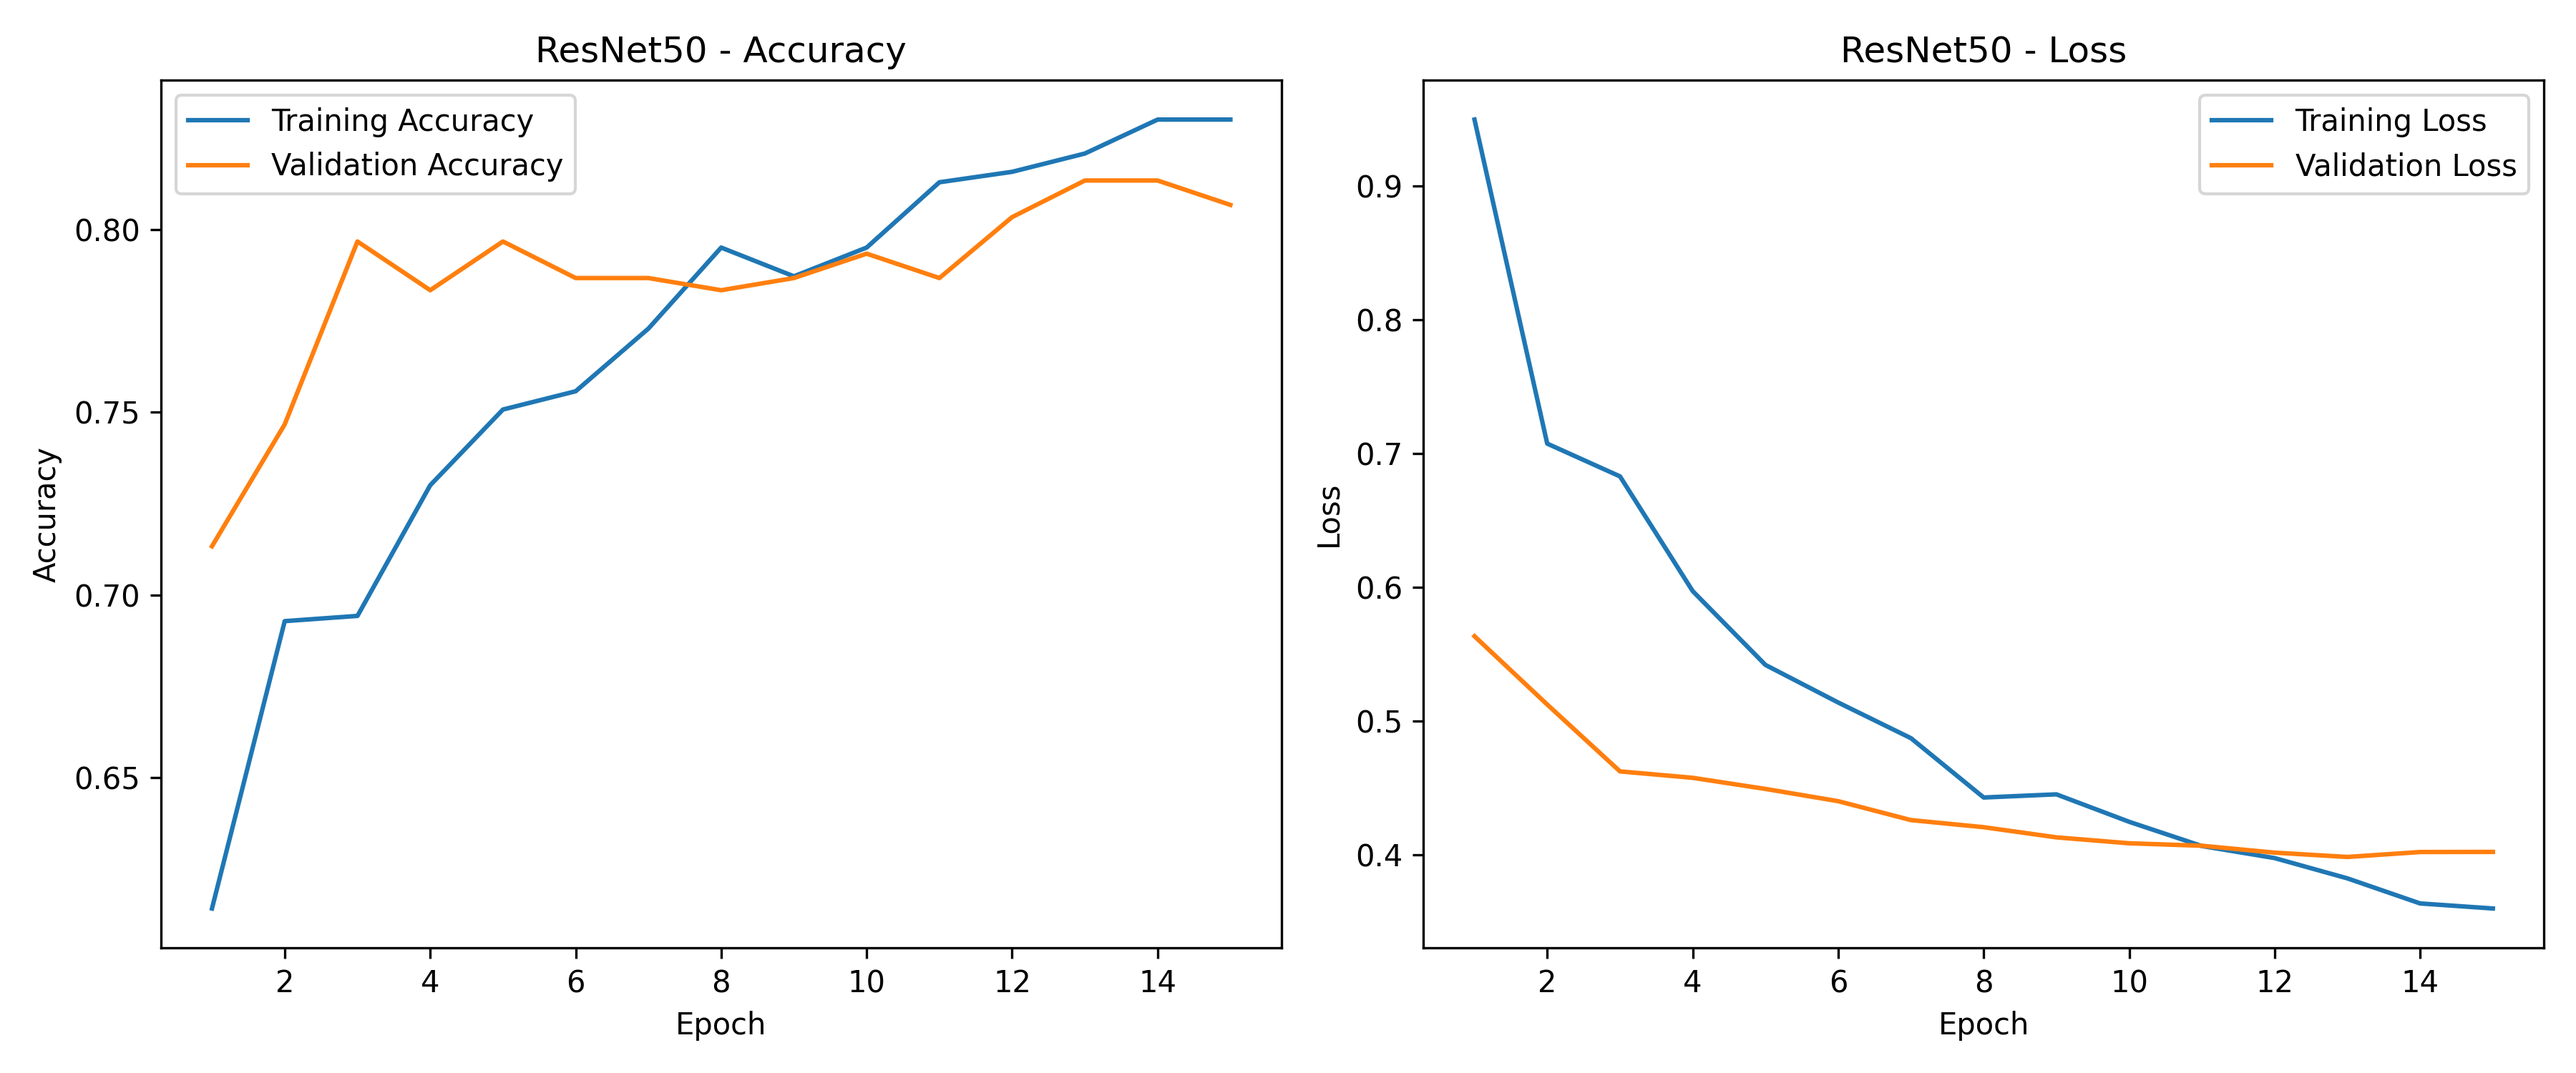
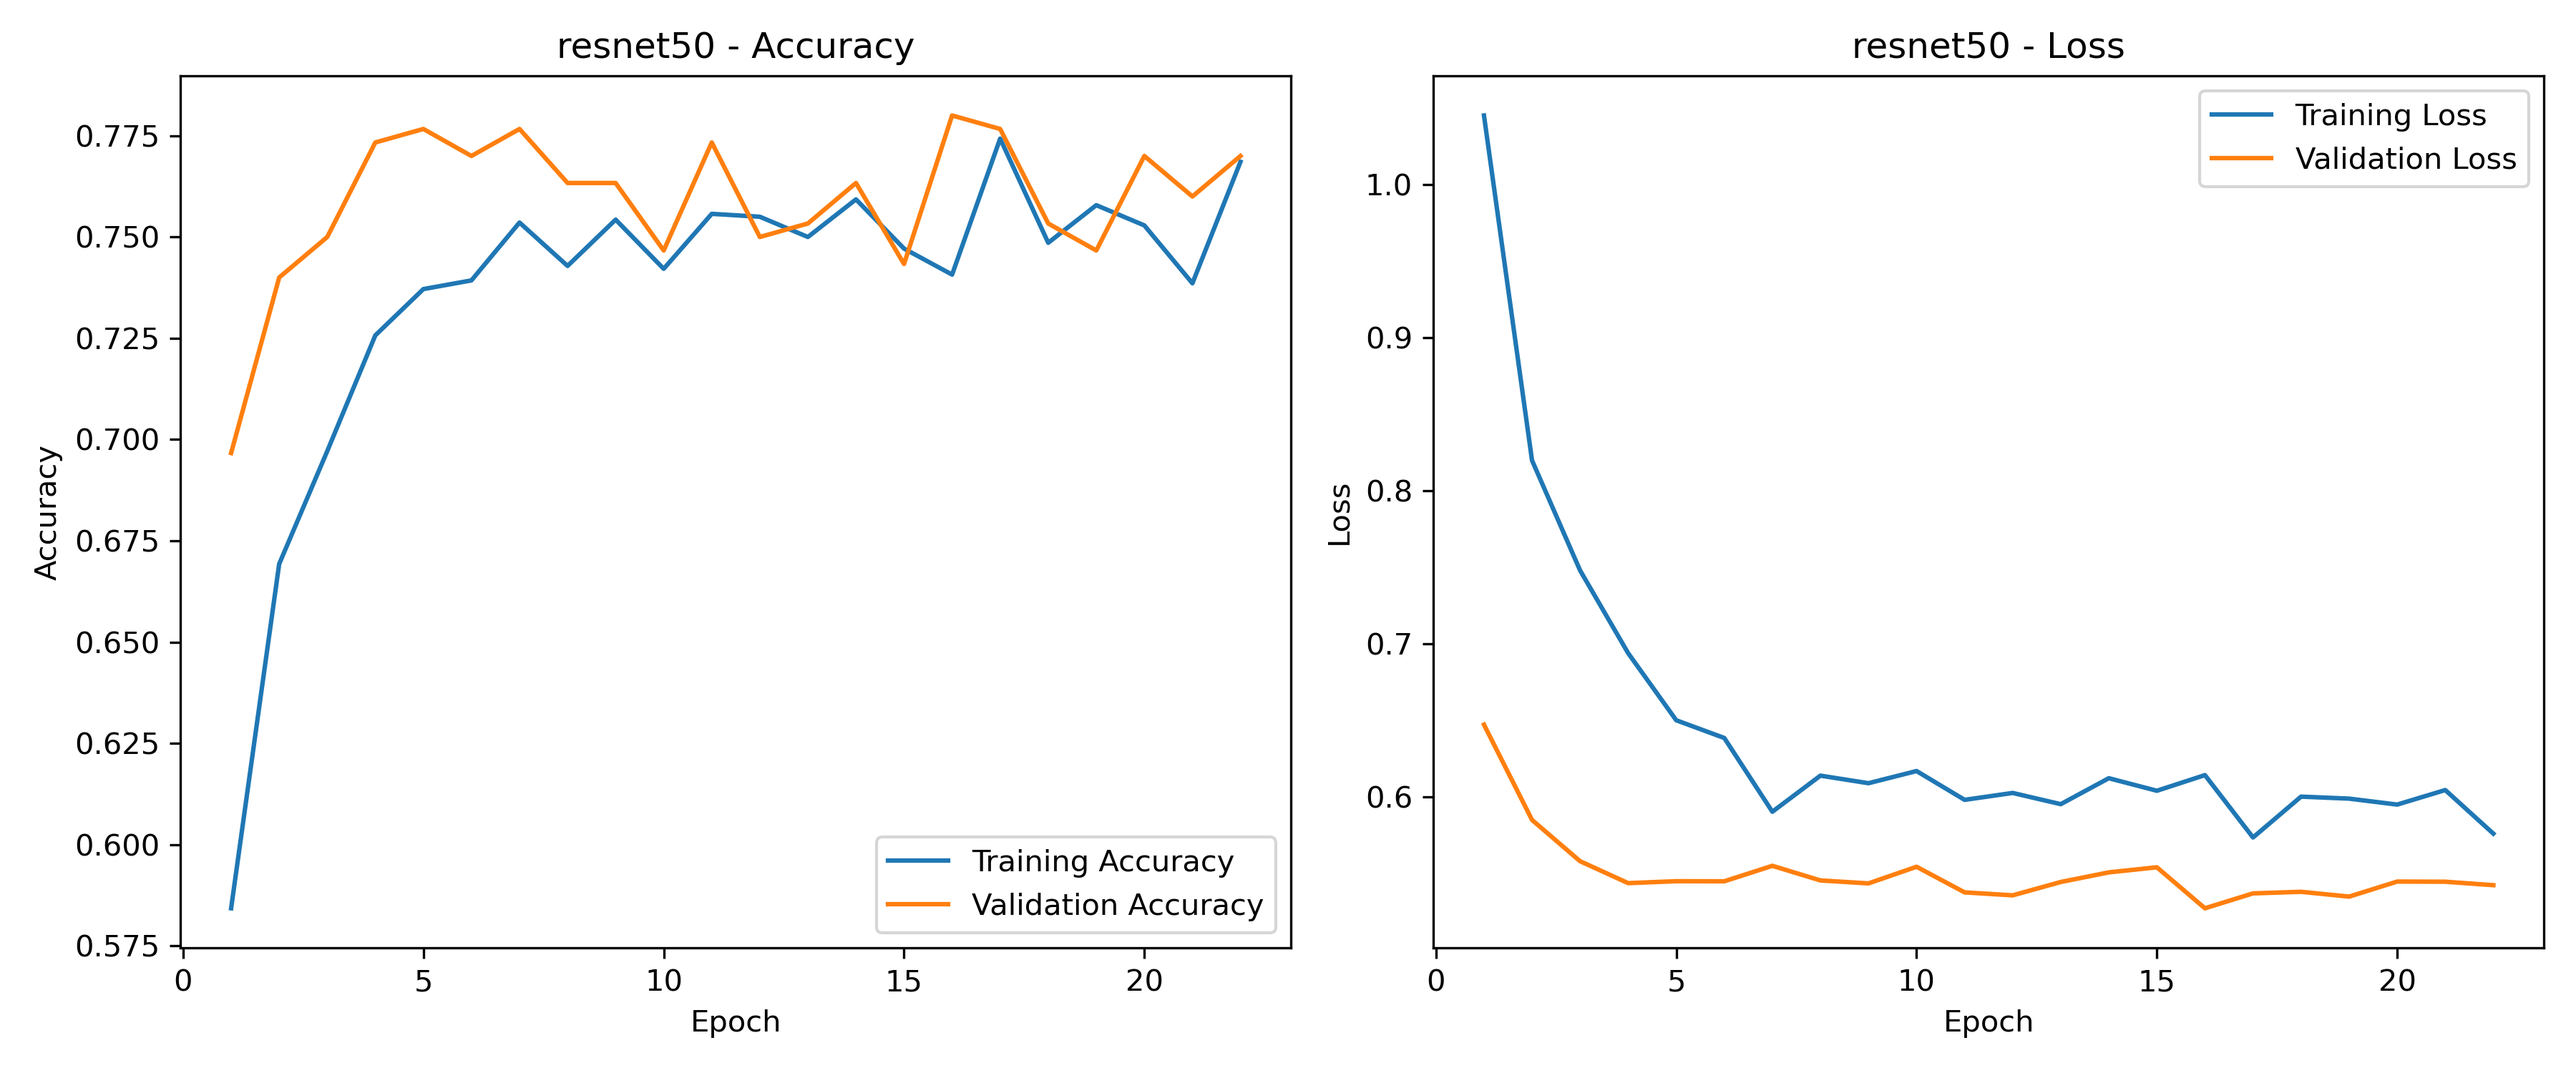
resnet

diff --git a/ResNet50.py b/ResNet50.py
@@ -3,11 +3,20 @@ import zipfile
 import pandas as pd
 import numpy as np
 import matplotlib.pyplot as plt
+import os
+os.environ['TF_CPP_MIN_LOG_LEVEL'] = '3'  # Suppress INFO and WARNING (but not ERROR)
 import tensorflow as tf
+
+tf.compat.v1.logging.set_verbosity(tf.compat.v1.logging.ERROR)
 from sklearn.model_selection import train_test_split
 from sklearn.metrics import classification_report, roc_auc_score, confusion_matrix
 import seaborn as sns
 import shutil
+
+print("Num GPUs Available: ", len(tf.config.list_physical_devices('GPU')))
+
+import tensorflow as tf
+print(tf.__version__)
 
 # === 1. DOWNLOAD HAM10000 DATASET FROM KAGGLE ===
 print("\nChecking for dataset...")
@@ -41,15 +50,16 @@ df['image_path'] = image_dir + "/" + df['image_id'] + ".jpg"
 
 # Balance: sample 1000 of each class
 # 1113 melanoma images and 6705 nevus
-mel_df = df[df['label'] == 'melanoma'].sample(n=1000, random_state=42, replace=False) # replace=True for overfitting (if need more images than exist)
-nv_df = df[df['label'] == 'nevus'].sample(n=1000, random_state=42)
-df_balanced = pd.concat([mel_df, nv_df]).sample(frac=1, random_state=42)
+rng=24 # change for different random samples
+mel_df = df[df['label'] == 'melanoma'].sample(n=1000, random_state=rng, replace=False) # replace=True for overfitting (if need more images than exist)
+nv_df = df[df['label'] == 'nevus'].sample(n=1000, random_state=rng)
+df_balanced = pd.concat([mel_df, nv_df]).sample(frac=1, random_state=rng)
 print("\nBalanced dataset:")
 print(df_balanced['label'].value_counts())
 
 # === 4. SPLIT DATA ===
-train_df, test_df = train_test_split(df_balanced, stratify=df_balanced['label'], test_size=0.3, random_state=42)
-val_df, test_df = train_test_split(test_df, stratify=test_df['label'], test_size=0.5, random_state=42)
+train_df, test_df = train_test_split(df_balanced, stratify=df_balanced['label'], test_size=0.3, random_state=rng)
+val_df, test_df = train_test_split(test_df, stratify=test_df['label'], test_size=0.5, random_state=rng)
 print("\nTrain/Val/Test split:")
 print("Train:")
 print(train_df['label'].value_counts())
@@ -120,10 +130,10 @@ data_augmentation = tf.keras.Sequential([
 AUTOTUNE = tf.data.AUTOTUNE
 
 train_ds = tf.keras.utils.image_dataset_from_directory(
-    "dataset/train", image_size=(IMG_HEIGHT, IMG_WIDTH), batch_size=BATCH_SIZE, label_mode="categorical", seed=42
+    "dataset/train", image_size=(IMG_HEIGHT, IMG_WIDTH), batch_size=BATCH_SIZE, label_mode="categorical", seed=rng
 )
 val_ds = tf.keras.utils.image_dataset_from_directory(
-    "dataset/val", image_size=(IMG_HEIGHT, IMG_WIDTH), batch_size=BATCH_SIZE, label_mode="categorical", seed=42
+    "dataset/val", image_size=(IMG_HEIGHT, IMG_WIDTH), batch_size=BATCH_SIZE, label_mode="categorical", seed=rng
 )
 test_ds = tf.keras.utils.image_dataset_from_directory(
     "dataset/test", image_size=(IMG_HEIGHT, IMG_WIDTH), batch_size=BATCH_SIZE, label_mode="categorical"
@@ -142,65 +152,65 @@ if os.path.exists(MODEL_PATH):
     model = tf.keras.models.load_model(MODEL_PATH)
 
 else:
-    print("No model found. Building ResNet50 model...")
-
     # Load the base ResNet50 model without the top layer
+    # https://keras.io/api/applications/
     base_model = tf.keras.applications.ResNet50(weights='imagenet', include_top=False, input_shape=(IMG_HEIGHT, IMG_WIDTH, 3))
     base_model.trainable = False  # Freeze base model initially
+
+    print(f"No model found. Building {base_model.name} model...")
 
     # Define the input and preprocessing pipeline
     inputs = tf.keras.Input(shape=(IMG_HEIGHT, IMG_WIDTH, 3))
     x = data_augmentation(inputs, training=True)
-    x = tf.keras.applications.resnet.preprocess_input(x)
+    x = tf.keras.applications.resnet50.preprocess_input(x)
 
+    from tensorflow.keras.optimizers.experimental import AdamW
     # Pass through base model and add custom classifier
     x = base_model(x, training=False)
     x = tf.keras.layers.GlobalAveragePooling2D()(x)
     x = tf.keras.layers.Dropout(0.5)(x)
-    x = tf.keras.layers.Dense(128, activation='relu')(x)
+    x = tf.keras.layers.Dense(128, activation='relu', kernel_regularizer=tf.keras.regularizers.l2(1e-4))(x)
     x = tf.keras.layers.Dropout(0.3)(x)
     outputs = tf.keras.layers.Dense(2, activation='softmax')(x)
 
     # Create the full model
     model = tf.keras.Model(inputs=inputs, outputs=outputs)
-
+    model.summary()
     # === WARM-UP PHASE ===
     print("Starting warm-up training...")
-    model.compile(optimizer=tf.keras.optimizers.Adam(learning_rate=1e-4),
-                loss='categorical_crossentropy',
-                metrics=['accuracy'])
+    model.compile(optimizer=AdamW(learning_rate=1e-4),
+                loss=tf.keras.losses.CategoricalCrossentropy(label_smoothing=0.1),
+                metrics=['accuracy', tf.keras.metrics.AUC(name='auc')])
 
     history_warmup = model.fit(train_ds, validation_data=val_ds, epochs=5)
 
     # === FINE-TUNING PHASE ===
     print("Unfreezing all layers for fine-tuning...")
 
-    # Unfreeze some or all of the base model
-    # Option 1: Unfreeze all layers
-    #base_model.trainable = True
-
-    # Option 2: Only fine-tune deeper layers (unfreeze last 25 layers)
     for layer in base_model.layers[:-25]:
         layer.trainable = False
     for layer in base_model.layers[-25:]:
         layer.trainable = True
 
-    # Recompile with a lower learning rate for fine-tuning
-    model.compile(optimizer=tf.keras.optimizers.Adam(learning_rate=1e-5),
-                loss='categorical_crossentropy',
-                metrics=['accuracy'])
+    model.compile(optimizer=AdamW(learning_rate=1e-5),
+                loss=tf.keras.losses.CategoricalCrossentropy(label_smoothing=0.1),
+                metrics=['accuracy', tf.keras.metrics.AUC(name='auc')])
 
-    history_finetune = model.fit(train_ds, validation_data=val_ds, epochs=10)
+    history_finetune = model.fit(train_ds, validation_data=val_ds, epochs=5)
 
     def combine_histories(h1, h2):
         combined = {}
-        for key in h1.history.keys():
-            combined[key] = h1.history[key] + h2.history.get(key, [])
+        # Handle if either input is already a dict
+        h1_dict = h1.history if hasattr(h1, 'history') else h1
+        h2_dict = h2.history if hasattr(h2, 'history') else h2
+
+        for key in h1_dict.keys():
+            combined[key] = h1_dict[key] + h2_dict.get(key, [])
         return combined
 
     combined_history = combine_histories(history_warmup, history_finetune)
 
-    def plot_training_curves(history_dict, model_name="ResNet50"):
+    def plot_training_curves(history_dict, model_name="resnet50"):
         acc = history_dict['accuracy']
         val_acc = history_dict['val_accuracy']
         loss = history_dict['loss']
@@ -231,10 +241,6 @@ else:
         plt.savefig(f"{model_name.lower()}_training_curves.png", dpi=300)
         plt.show()
 
-    plot_training_curves(combined_history, model_name="ResNet50")
-
-model.summary()
-
 # === 8. TRAIN MODEL WITH AUC-BASED SAVING ===
 if not skip_training:
     print("Training model...")
@@ -248,22 +254,21 @@ if not skip_training:
         verbose=1
     )
 
-    early_stop = tf.keras.callbacks.EarlyStopping(patience=5, restore_best_weights=True)
+    early_stop = tf.keras.callbacks.EarlyStopping(patience=5, monitor='loss', restore_best_weights=True)
 
-    model.compile(optimizer=tf.keras.optimizers.Adam(learning_rate=1e-5),
-                  loss='categorical_crossentropy',
+    model.compile(optimizer=AdamW(learning_rate=1e-5),
+                  loss=tf.keras.losses.CategoricalCrossentropy(label_smoothing=0.1),
                   metrics=['accuracy', tf.keras.metrics.AUC(name='auc')])
 
-    model.fit(train_ds,
+    history_final = model.fit(train_ds,
+              epochs=20,
               validation_data=val_ds,
-              epochs=10,
               callbacks=[early_stop, checkpoint_cb])
 
-    # Reload the best model from disk (saved during training)
-    model = tf.keras.models.load_model(MODEL_PATH)
-else:
-    print("Model loaded from disk. Skipping training phase.")
+    combined_history = combine_histories(combined_history, history_final)
 
+    plot_training_curves(combined_history, model_name="resnet50")
+    
 # === 9. EVALUATE ===
 
 print("Evaluating model on test set...")
@@ -285,16 +290,16 @@ plt.show()
 import cv2
 import matplotlib.pyplot as plt
 
-# Extract the ResNet base model from your full model
+# Extract the base model from your full model
 resnet_model = model.get_layer("resnet50")
 
-# Define classifier head (everything after resnet_model)
+# Define classifier head (everything after base model)
 x = resnet_model.output
 for layer in model.layers[model.layers.index(resnet_model)+1:]:
     x = layer(x)
 classifier_model = tf.keras.Model(inputs=resnet_model.output, outputs=x)
 
-# Find the last Conv2D layer inside the ResNet base
+# Find the last Conv2D layer inside the model base
 def get_last_conv_layer(model):
     for layer in reversed(model.layers):
         if isinstance(layer, tf.keras.layers.Conv2D):
@@ -329,7 +334,7 @@ def make_gradcam_heatmap(img_array, base_model, classifier_model, last_conv_laye
 class_names = ["melanoma", "nevus"]
 
 # Pick random samples from test set
-sample_images = list(test_df.sample(10).itertuples())
+sample_images = list(test_df.sample(3).itertuples())
 
 for sample in sample_images:
     image_path = sample.image_path
@@ -339,7 +344,8 @@ for sample in sample_images:
     img = tf.keras.utils.load_img(image_path, target_size=(IMG_HEIGHT, IMG_WIDTH))
     img_array = tf.keras.utils.img_to_array(img)
     img_array = tf.expand_dims(img_array, axis=0)
-    img_array = tf.keras.applications.resnet.preprocess_input(img_array)
+    img_array = tf.keras.applications.resnet50.preprocess_input(img_array)
+
 
     # Make prediction
     preds = model.predict(img_array)
